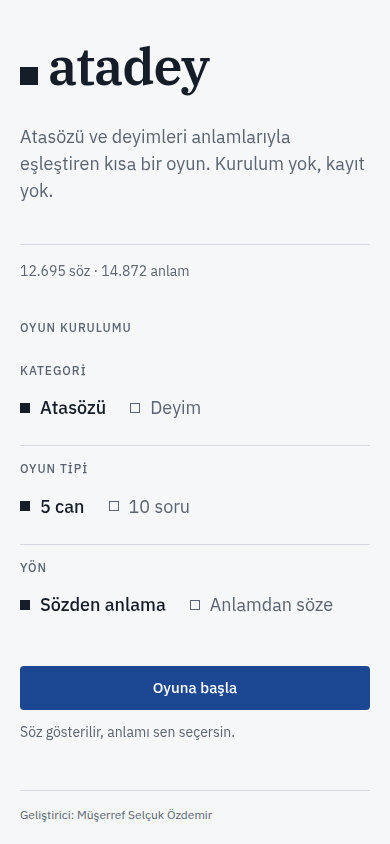
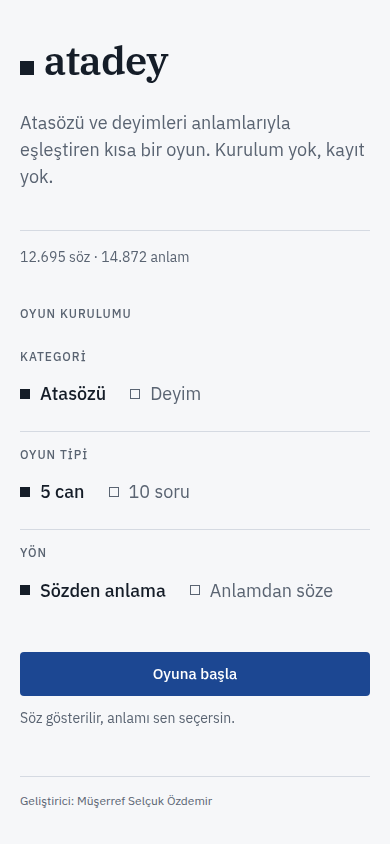
feat(ui): akışkan tipografi, madde numarası ve iki sütunlu geri bildirim
İkinci tasarım turu — okunurluk ve hiyerarşi üzerine:

- Tipografi `clamp()` ile akışkan: kelime markası 40→64, söz 28→38, skor
  56→88 px. Kırılma noktası sıçraması yok, tek kural.
- Oyun şeridine büyük **madde numarası** eklendi (serif): fihristin çıpası,
  “Soru 04” metninin yerini aldı.
- Seçenek harfleri `--accent-wash` rozet oldu; dört satır gözle taranıyor.
- Geri bildirim ≥640px'te iki sütun: solda karar, sağda örnek/alt anlamlar.
- Can göstergesi artık metinli (“3 can” + beş kare), yalnız ipucu değil.
- Sonuç skoru ve “doğru cevap” aynı taban çizgisinde; skor clamp ile büyüdü.
- Favicon pembe damla yerine kelime markasının karesi + serif “a” (SVG).
- Menüde adımlar listesi yalnız masaüstünde; mobilde “Oyuna başla” ilk ekranda.

diff --git a/src/components/game/ScoreStrip.tsx b/src/components/game/ScoreStrip.tsx
@@ -15,9 +15,7 @@ interface ScoreStripProps {
 function Lives({ remaining }: { remaining: number }) {
   return (
     <p className="flex items-center gap-2 text-sm text-ink-soft">
-      <span className="sr-only">
-        Can {remaining}/{MAX_MISTAKES}
-      </span>
+      <span className="tabular">{remaining} can</span>
       <span aria-hidden="true" className="flex items-center gap-1">
         {Array.from({ length: MAX_MISTAKES }, (_, index) => (
           <span
@@ -47,34 +45,41 @@ export function ScoreStrip({
       : Math.min(100, (answered / MAX_QUESTIONS) * 100);
 
   return (
-    <header className="mb-7">
-      <div className="flex items-baseline justify-between gap-4">
-        <p className="text-label font-medium uppercase text-ink-soft">
-          {CATEGORY_LABEL[mode]} · {DIRECTION_LABEL[direction]}
-        </p>
-        <p className="text-sm text-ink-soft">
-          <span className="tabular text-base font-semibold text-ink">{score}</span> doğru
-        </p>
-      </div>
+    <header className="mb-7 flex items-start gap-4 sm:gap-5">
+      {/* Entry number: the “index card” anchor of the screen. */}
+      <p className="tabular shrink-0 font-serif text-[2.25rem] leading-[0.85] text-ink sm:text-[2.75rem]">
+        {String(questionNumber).padStart(2, "0")}
+      </p>
 
-      <div className="mt-3 flex items-center gap-3">
-        {format === "questions" && (
-          <div className="h-0.5 flex-1 bg-rule" aria-hidden="true">
-            <div
-              className="h-full bg-accent transition-[width] duration-200 ease-out"
-              style={{ width: `${progress}%` }}
-            />
-          </div>
-        )}
-        <p className="tabular text-sm text-ink-soft">
-          Soru {String(questionNumber).padStart(2, "0")}
-          {format === "questions" && ` / ${MAX_QUESTIONS}`}
-        </p>
-        {format === "mistakes" && (
-          <div className="ml-auto">
-            <Lives remaining={remaining} />
-          </div>
-        )}
+      <div className="min-w-0 flex-1">
+        <div className="flex items-baseline justify-between gap-3">
+          <p className="truncate text-label font-medium uppercase text-ink-soft">
+            {CATEGORY_LABEL[mode]} · {DIRECTION_LABEL[direction]}
+          </p>
+          <p className="shrink-0 text-sm text-ink-soft">
+            <span className="tabular text-base font-semibold text-ink">{score}</span> doğru
+          </p>
+        </div>
+
+        <div className="mt-2.5 flex items-center gap-3">
+          {format === "questions" ? (
+            <>
+              <div className="h-0.5 flex-1 bg-rule" aria-hidden="true">
+                <div
+                  className="h-full bg-accent transition-[width] duration-200 ease-out"
+                  style={{ width: `${progress}%` }}
+                />
+              </div>
+              <p className="tabular text-sm text-ink-soft">
+                {answered}/{MAX_QUESTIONS}
+              </p>
+            </>
+          ) : (
+            <div className="ml-auto">
+              <Lives remaining={remaining} />
+            </div>
+          )}
+        </div>
       </div>
     </header>
   );

diff --git a/src/components/game/FeedbackBlock.tsx b/src/components/game/FeedbackBlock.tsx
@@ -19,34 +19,36 @@ export function FeedbackBlock({ question, answered, correct }: FeedbackBlockProp
   const { definition, alternatives } = question;
 
   return (
-    <div className="mt-7 animate-enter border-t border-rule pt-6">
+    <div className="mt-7 animate-enter border-t border-rule pt-6 sm:grid sm:grid-cols-[minmax(0,9rem)_minmax(0,1fr)] sm:gap-8">
       <p className={cn("text-label font-medium uppercase", correct ? "text-correct" : "text-wrong")}>
         {correct ? "Doğru" : "Yanlış"}
       </p>
 
-      {definition.example && (
-        <figure className="mt-3 border-l-2 border-rule pl-4">
-          <figcaption className="text-label font-medium uppercase text-ink-soft">Örnek</figcaption>
-          <blockquote className="measure-wide mt-1 font-serif text-base italic leading-relaxed text-ink-soft">
-            {definition.example}
-          </blockquote>
-        </figure>
-      )}
+      <div className="mt-3 sm:mt-0">
+        {definition.example && (
+          <figure className="border-l-2 border-rule pl-4">
+            <figcaption className="text-label font-medium uppercase text-ink-soft">Örnek</figcaption>
+            <blockquote className="measure-wide mt-1 font-serif text-base italic leading-relaxed text-ink-soft">
+              {definition.example}
+            </blockquote>
+          </figure>
+        )}
 
-      {alternatives.length > 0 && (
-        <div className={cn(definition.example ? "mt-5" : "mt-3")}>
-          <p className="text-label font-medium uppercase text-ink-soft">
-            {alternatives.length === 1 ? "Diğer anlamı" : "Diğer anlamları"}
-          </p>
-          <ul className="mt-2 space-y-1.5">
-            {alternatives.slice(0, 2).map((alternative) => (
-              <li key={alternative.definition} className="measure text-sm text-ink-soft">
-                {alternative.definition}
-              </li>
-            ))}
-          </ul>
-        </div>
-      )}
+        {alternatives.length > 0 && (
+          <div className={cn(definition.example ? "mt-5" : "")}>
+            <p className="text-label font-medium uppercase text-ink-soft">
+              {alternatives.length === 1 ? "Diğer anlamı" : "Diğer anlamları"}
+            </p>
+            <ul className="mt-2 space-y-1.5">
+              {alternatives.slice(0, 2).map((alternative) => (
+                <li key={alternative.definition} className="measure text-sm text-ink-soft">
+                  {alternative.definition}
+                </li>
+              ))}
+            </ul>
+          </div>
+        )}
+      </div>
     </div>
   );
 }

diff --git a/src/components/game/AnswerOption.tsx b/src/components/game/AnswerOption.tsx
@@ -22,13 +22,16 @@ export function AnswerOption({ index, text, state, onSelect }: AnswerOptionProps
       type="button"
       onClick={onSelect}
       className={cn(
-        "grid w-full grid-cols-[1.25rem_minmax(0,1fr)_1rem] items-start gap-3 border-l-2 border-t border-t-rule border-l-transparent px-2 py-4 text-left transition-colors duration-150",
+        "grid w-full grid-cols-[1.5rem_minmax(0,1fr)_1rem] items-start gap-3 border-l-2 border-t border-t-rule border-l-transparent px-2 py-4 text-left transition-colors duration-150",
         state === "idle" && "hover:bg-ink/[0.03]",
         state === "correct" && "border-l-correct bg-correct/[0.06]",
         state === "wrong" && "border-l-wrong bg-wrong/[0.05]"
       )}
     >
-      <span aria-hidden="true" className="pt-0.5 text-label font-medium text-ink-soft">
+      <span
+        aria-hidden="true"
+        className="flex h-6 w-6 items-center justify-center rounded-sm bg-accent-wash text-label font-semibold text-accent"
+      >
         {LETTERS[index]}
       </span>
       <span

diff --git a/src/components/menu/MenuScreen.tsx b/src/components/menu/MenuScreen.tsx
@@ -57,7 +57,7 @@ export function MenuScreen({ onStart }: MenuScreenProps) {
 
   return (
     <main className="mx-auto flex min-h-[100dvh] w-full max-w-[1040px] flex-col px-5 py-10 sm:px-8 sm:py-14 lg:py-20">
-      <div className="grid flex-1 gap-10 lg:grid-cols-[minmax(0,1fr)_26rem] lg:items-stretch lg:gap-20">
+      <div className="grid flex-1 gap-10 lg:grid-cols-[minmax(0,1fr)_24rem] lg:items-start lg:gap-12">
         <section className="flex animate-enter flex-col">
           <h1>
             <Wordmark />
@@ -80,7 +80,7 @@ export function MenuScreen({ onStart }: MenuScreenProps) {
           </ol>
 
           {counts && (
-            <p className="tabular mt-10 border-t border-rule pt-4 text-sm text-ink-soft lg:mt-auto">
+            <p className="tabular mt-10 border-t border-rule pt-4 text-sm text-ink-soft">
               {`${formatCount(counts.phrases)} söz · ${formatCount(counts.definitions)} anlam`}
             </p>
           )}

diff --git a/tailwind.config.ts b/tailwind.config.ts
@@ -16,11 +16,12 @@ export default {
         base: ["1rem", { lineHeight: "1.55" }],
         lead: ["1.125rem", { lineHeight: "1.5" }],
         quote: ["1.25rem", { lineHeight: "1.7" }],
-        entry: ["1.625rem", { lineHeight: "1.3" }],
-        "entry-lg": ["2.125rem", { lineHeight: "1.25" }],
+        // Fluid display sizes: one rule instead of breakpoint jumps.
+        entry: ["clamp(1.5rem, 1.2rem + 1.1vw, 1.75rem)", { lineHeight: "1.3" }],
+        "entry-lg": ["clamp(1.75rem, 1.3rem + 1.8vw, 2.375rem)", { lineHeight: "1.22" }],
         score: ["2.75rem", { lineHeight: "1.05" }],
-        hero: ["4rem", { lineHeight: "1" }],
-        display: ["3.25rem", { lineHeight: "1.05" }]
+        hero: ["clamp(3.5rem, 2.2rem + 5vw, 5.5rem)", { lineHeight: "0.95" }],
+        display: ["clamp(2.5rem, 1.6rem + 3.6vw, 4rem)", { lineHeight: "1.02" }]
       },
       colors: {
         paper: "hsl(var(--paper) / <alpha-value>)",

diff --git a/src/components/result/ResultScreen.tsx b/src/components/result/ResultScreen.tsx
@@ -62,8 +62,10 @@ export function ResultScreen({ run, score, answered, mistakes, onRetry, onMenu }
           {CATEGORY_LABEL[run.mode]} · {DIRECTION_LABEL[run.direction]} · {FORMAT_LABEL[run.format]}
         </p>
 
-        <p className="tabular mt-2 font-serif text-hero text-ink">{score}</p>
-        <p className="text-sm text-ink-soft">doğru cevap</p>
+        <div className="mt-3 flex items-baseline gap-3">
+          <p className="tabular font-serif text-hero text-ink">{score}</p>
+          <p className="text-sm text-ink-soft">doğru cevap</p>
+        </div>
 
         <dl className="mt-7 grid grid-cols-3 gap-4 border-t border-rule pt-4">
           <div>

diff --git a/index.html b/index.html
@@ -9,8 +9,7 @@
       name="description"
       content="Atasözleri ve deyimleri anlamlarıyla eşleştirerek Türkçe bilgini test et. İki yön, iki oyun tipi, 12.000'den fazla madde."
     />
-    <link rel="icon" type="image/x-icon" href="/favicon.ico" />
-    <link rel="icon" type="image/png" href="/damla_arkaplan.png" />
+    <link rel="icon" type="image/svg+xml" href="/favicon.svg" />
   </head>
   <body>
     <div id="root"></div>

diff --git a/docs/DESIGN.md b/docs/DESIGN.md
@@ -22,15 +22,23 @@ barındırılır (`@fontsource`); Google Fonts'a çalışma anında istek atılm
 
 | Rol | Aile | Boyut / satır | Kullanım |
 | --- | --- | --- | --- |
-| `display` | Plex Serif 600 | 52 / 1.05 | Kelime markası |
-| `hero` | Plex Serif 600 | 64 / 1 | Sonuç skoru |
-| `entry-lg` | Plex Serif 600 | 34 / 1.25 | Soru metni (masaüstü) |
-| `entry` | Plex Serif 600 | 26 / 1.3 | Soru metni (mobil) |
-| `quote` | Plex Serif 400 italic | 20 / 1.7 | Örnek cümle, ters mod istemi |
+| `display` | Plex Serif 600 | `clamp(40→64)` / 1.02 | Kelime markası |
+| `hero` | Plex Serif 600 | `clamp(56→88)` / 0.95 | Sonuç skoru |
+| `entry-lg` | Plex Serif 600 | `clamp(28→38)` / 1.22 | Soru metni (söz) |
+| `entry` | Plex Serif 600 | `clamp(24→28)` / 1.3 | Soru metni (anlam) |
+| `quote` | Plex Serif 400 italic | 20 / 1.7 | Örnek cümle |
 | `lead` | Plex Sans 400 | 18 / 1.5 | Giriş satırı, seçenek |
 | `body` | Plex Sans 400 | 16 / 1.55 | Gövde |
 | `label` | Plex Sans 500 | 12 / 1.2 | Bölüm etiketi (0.08em aralık, BÜYÜK HARF) |
-| `score` | Plex Serif 600 tabular | 44 | Skor |
+
+Boyutlar **`clamp()` ile akışkan**: tek bir kural, kırılma noktası sıçraması
+yok. Skor, madde numarası ve sayaçlar `font-variant-numeric: tabular-nums`
+taşır; sayfa kayarken genişlik oynamaz.
+
+Kullanılan modern teknikler, hepsi geri düşüşlü: `:has()` (odak halkası
+grubun tamamında), `text-wrap: balance` (başlıklar), `clamp()` (tipografi),
+`tabular-nums` (sayılar), `prefers-reduced-motion` (hareket), semantik
+`fieldset/legend` + `radiogroup` (seçimler). Süs için değil, davranış için.
 
 Not: `cn()` (tailwind-merge) bu özel `text-*` boyutlarını tanımak için
 `src/lib/utils.ts` içinde yapılandırıldı; yeni bir boyut eklenirse oraya da
@@ -101,17 +109,18 @@ Mobilde tek sütun; üç adımlık liste gizlenir, düğme **kaydırmadan görü
 
 ### Oyun — “madde”
 
-- Üst şerit: solda kategori ve yön, sağda skor; altında ilerleme. Can
-  modunda ilerleme çizgisi yerine **5 küçük kare** ve “Can 3/5” metni var —
-  yürek ikonu yok, renk tek başına anlam taşımıyor. Soru modunda 2px ilerleme
-  çizgisi ve “Soru 04 / 10”.
-- Kart: söz (serif, büyük), tek satır istem (“Bu söz ne anlama gelir?”),
-  ardından dört seçenek **A·B·C·D** harfli satırlar olarak hairline çizgiyle
-  ayrılır. Seçenek kutusu yığını değil, liste — uzun tanımlar okunabilir kalır.
+- Üst şerit: solda **büyük madde numarası** (serif, 36–44px) — fihristin
+  çıpası; yanında kategori · yön ve skor; altında ilerleme. Can modunda
+  ilerleme çizgisi yerine “5 can” metni + beş küçük kare var. Soru modunda
+  2px ilerleme çizgisi ve “4/10”.
+- Kart: söz (serif, akışkan 24–38px), tek satır istem (“Bu söz ne anlama
+  gelir?”), ardından dört seçenek **A·B·C·D** rozetli satırlar olarak hairline
+  çizgiyle ayrılır. Harf rozetleri `--accent-wash` zeminlidir: satırlar gözle
+  hızla taranır, seçenek kutusu yığını oluşmaz.
 - Cevap sonrası: satırlar yerinde kalır; doğru satır `--correct` sol çizgi +
   onay ikonu, yanlış seçim `--wrong` sol çizgi + üstü çizili metin. Altında
-  sadece **sorunun göstermediği** bilgi: varsa kullanım örneği, varsa diğer
-  anlamlar. Doğru anlam zaten işaretli satırdır (ters modda istemdir);
+  **iki sütunlu** geri bildirim (≥640px): solda karar (DOĞRU/YANLIŞ), sağda
+  varsa örnek cümle ve diğer anlamlar. Doğru anlam zaten işaretli satırdır;
   tekrar basılmaz.
 
 ### Sonuç — “fiş”
